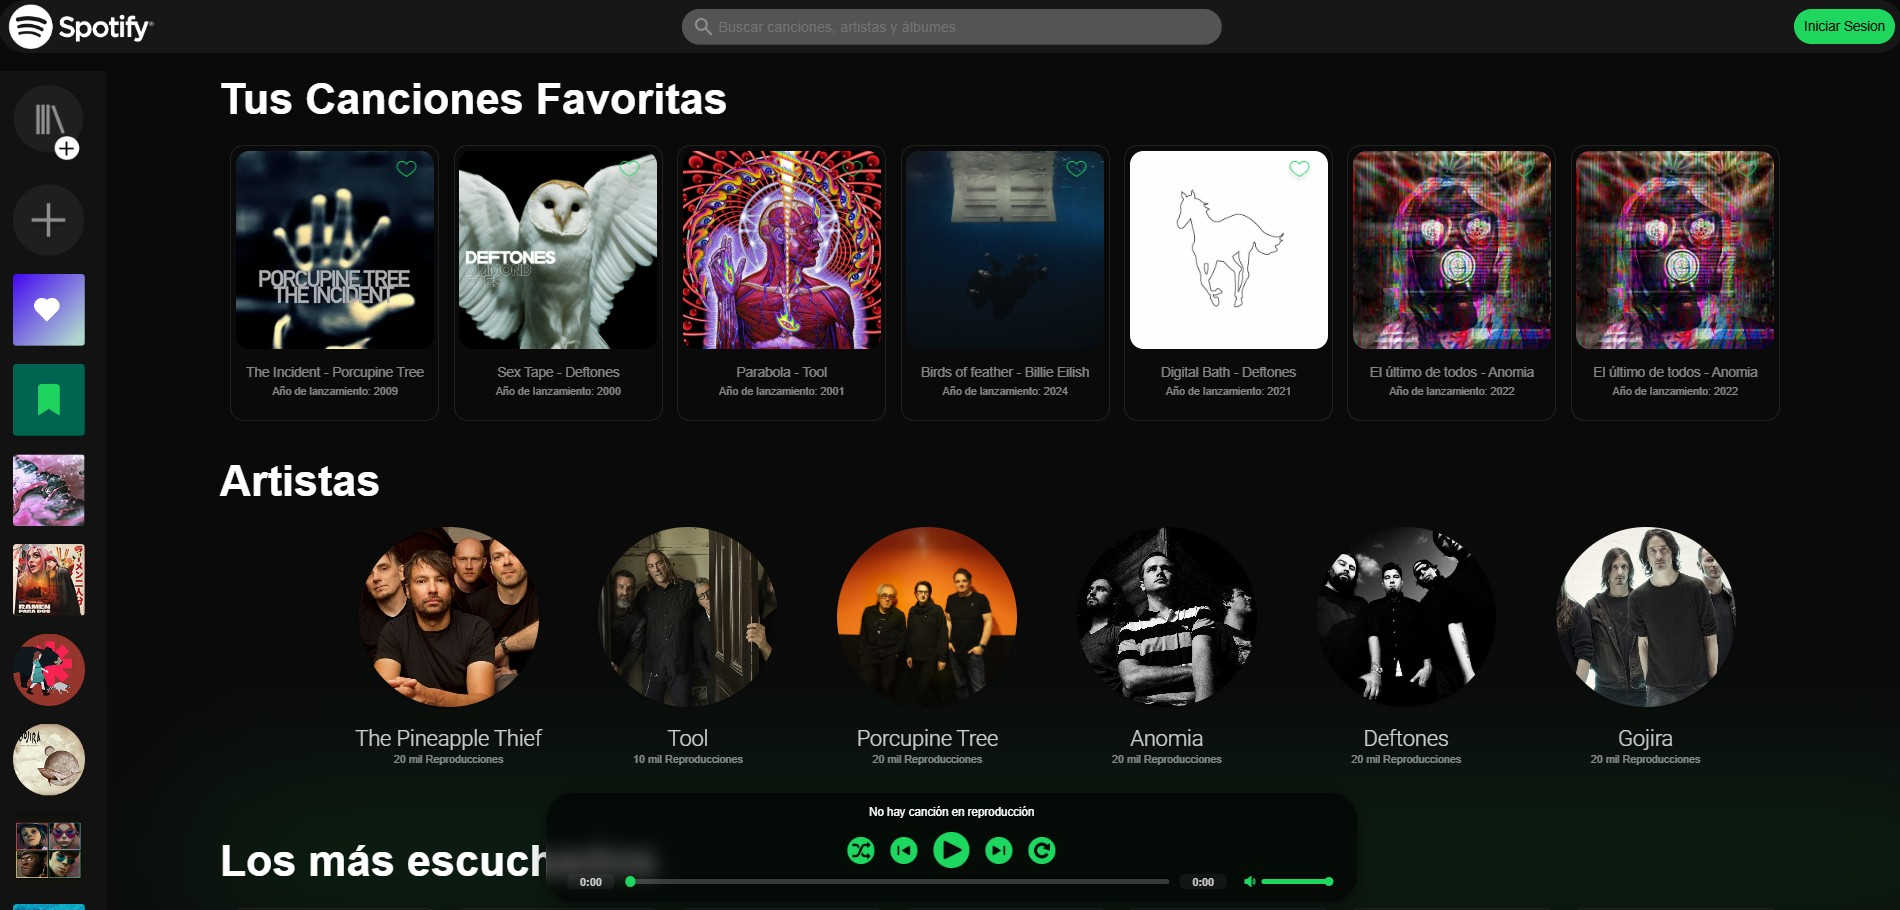
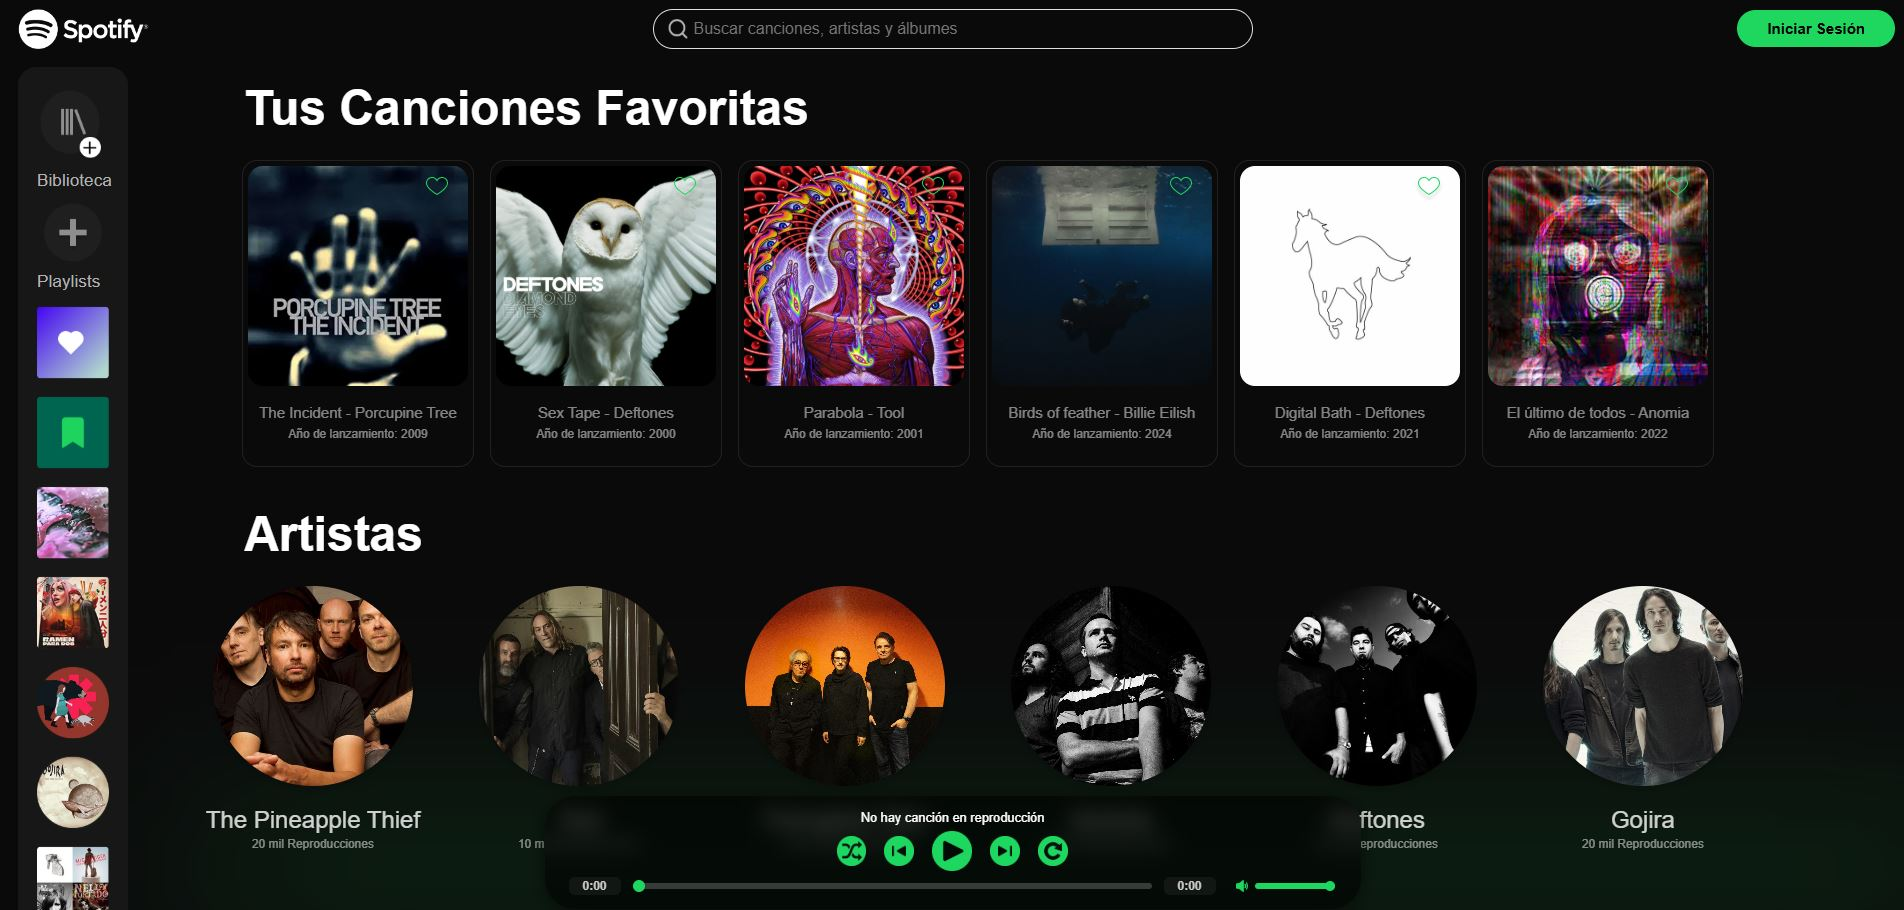
actualizando capturas

diff --git a/README.md b/README.md
@@ -87,6 +87,7 @@ npm run dev
 
 
 **Capturas del proyecto**  
-![Browser principal](./media/Captura_1.JPG)
-  
-![Browser 2](./media/Captura_2.JPG) 
+![Browser principal](./media/Captura_1.JPG) 
+
+- ![Browser 2](./media/Browser_2.JPG) 
+
